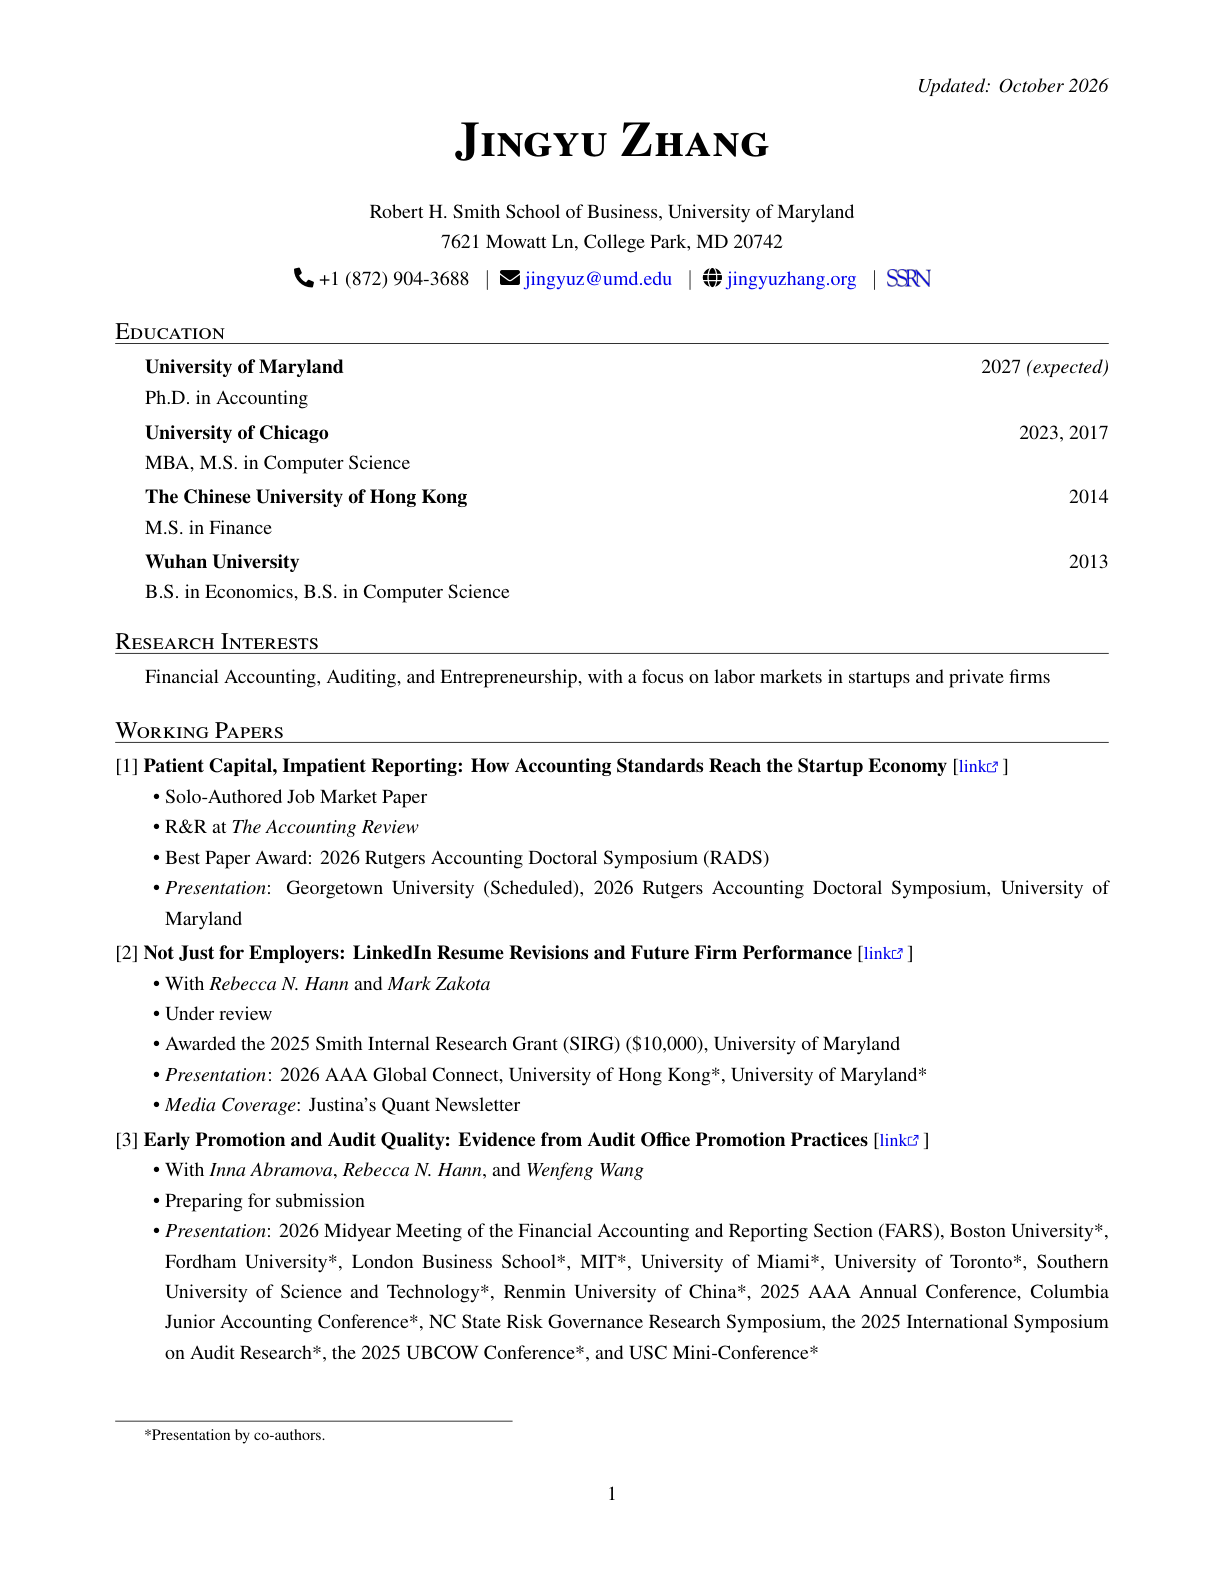
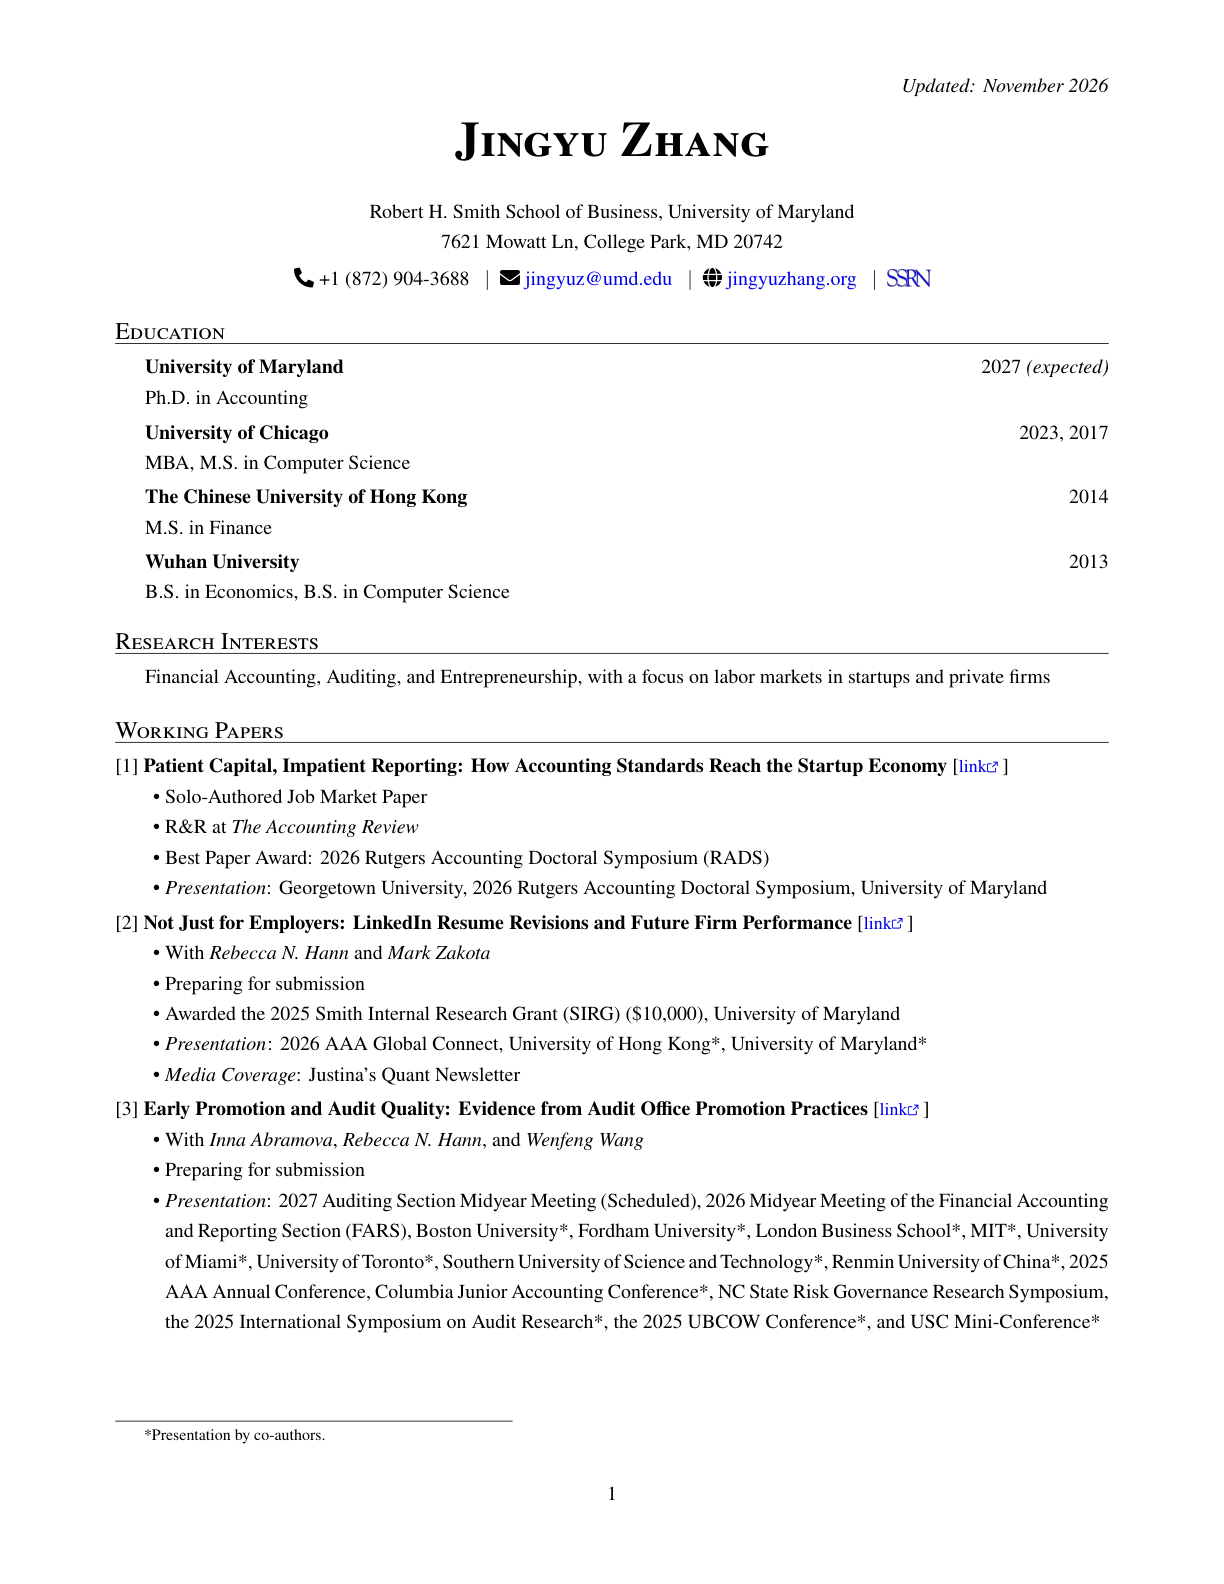
CV updated November 2026: GenAI paper retitled, 2027 Auditing Midyear presentations, readable conference roles

Changed region(s): [[0.0931, 0.5568, 0.9003, 0.8662], [0.7451, 0.0309, 0.8382, 0.0619]]

diff --git a/research/index.html b/research/index.html
@@ -1,6 +1,6 @@
 <!doctype html>
 <!-- This site was created with Hugo Blox. https://hugoblox.com -->
-<!-- Last Published: October 27, 2026 --><html lang="en-us" dir="ltr"
+<!-- Last Published: November 6, 2026 --><html lang="en-us" dir="ltr"
       data-wc-theme-default="light">
   
 <head>
@@ -481,7 +481,7 @@
   <li>R&amp;R at <em>The Accounting Review</em></li>
   <li>Committee: Rebecca N. Hann (Chair), Philip G. Berger, Michael D. Kimbrough, Anastasia A. Zakolyukina, and Mark Zakota</li>
   <li><strong>Best Paper Award</strong>, 2026 Rutgers Accounting Doctoral Symposium</li>
-  <li>Presented at: Georgetown University (scheduled), 2026 Rutgers Accounting Doctoral Symposium, University of Maryland</li>
+  <li>Presented at: Georgetown University, 2026 Rutgers Accounting Doctoral Symposium, University of Maryland</li>
 </ul>
 <div class="jmp-abstract">
 <p><strong>Abstract.</strong> ASU 2016-01 requires public firms to recognize equity-investment value changes in net income, exposing public corporate venture capital (CVC) investors to substantial earnings volatility from their startup holdings. This paper examines whether the standard, aimed at public-firm reporting, reaches the private startups these investors back. Using a comprehensive sample of CVC- and VC-backed startups, I find that public CVCs reduce early-stage deal formation and follow-on funding after the standard, relative to unaffected investors. Affected startups experience significantly slower employment growth, driven by reduced hiring and concentrated among the most CVC-dependent firms. Consistent with the earnings-volatility mechanism, the pullback is strongest among the most exposed parents. Although other investors largely replace the lost funding, startups’ co-investor networks narrow and talent pipelines thin, suggesting CVCs provide strategic resources that capital alone cannot replace. Overall, these findings identify investment relationships as a channel through which public-firm reporting rules reach the startup economy.</p>
@@ -492,7 +492,7 @@
 <h3><span class="num">[2]</span> <a href="https://papers.ssrn.com/sol3/papers.cfm?abstract_id=6637079">Not Just for Employers: LinkedIn Resume Revisions and Future Firm Performance</a></h3>
 <ul>
   <li>With Rebecca N. Hann and Mark Zakota</li>
-  <li>Under review</li>
+  <li>Preparing for submission</li>
   <li>Awarded the 2025 Smith Internal Research Grant, University of Maryland</li>
   <li><strong>Presented at:</strong> 2026 AAA Global Connect, University of Hong Kong*, University of Maryland*</li>
   <li><strong>Media coverage:</strong> Justina's Quant Newsletter</li>
@@ -506,7 +506,7 @@
 <h3><span class="num">[3]</span> <a href="https://papers.ssrn.com/sol3/papers.cfm?abstract_id=5600852">Early Promotion and Audit Quality: Evidence from Audit Office Promotion Practices</a></h3>
 <ul>
   <li>With Inna Abramova, Rebecca N. Hann, and Wenfeng Wang</li>
-  <li><strong>Presented at:</strong> 2026 Midyear Meeting of the Financial Accounting and Reporting Section (FARS), Boston University*, Fordham University*, London Business School*, MIT*, University of Miami*, University of Toronto*, Southern University of Science and Technology*, Renmin University of China*, 2025 AAA Annual Conference, Columbia Junior Accounting Conference*, NC State Risk Governance Research Symposium, 2025 International Symposium on Audit Research*, 2025 UBCOW Conference*, USC Mini-Conference*</li>
+  <li><strong>Presented at:</strong> 2027 Auditing Section Midyear Meeting (scheduled), 2026 Midyear Meeting of the Financial Accounting and Reporting Section (FARS), Boston University*, Fordham University*, London Business School*, MIT*, University of Miami*, University of Toronto*, Southern University of Science and Technology*, Renmin University of China*, 2025 AAA Annual Conference, Columbia Junior Accounting Conference*, NC State Risk Governance Research Symposium, 2025 International Symposium on Audit Research*, 2025 UBCOW Conference*, USC Mini-Conference*</li>
 </ul>
 <details>
   <summary>Abstract</summary>
@@ -518,7 +518,7 @@
 <ul>
   <li>With Inna Abramova, Philip G. Berger, and Rebecca N. Hann</li>
   <li>Awarded the 2025 Institute of Entrepreneurship and Private Capital Research Grant, London Business School</li>
-  <li><strong>Presented at:</strong> University of Illinois 27th Symposium on Auditing Research*</li>
+  <li><strong>Presented at:</strong> 2027 Auditing Section Midyear Meeting (scheduled), University of Illinois 27th Symposium on Auditing Research*</li>
 </ul>
 <details>
   <summary>Abstract</summary>
@@ -530,7 +530,7 @@
 <ul>
   <li>With Philip G. Berger, Rebecca N. Hann, and Kristen Valentine</li>
   <li>Awarded the Polsky Center for Entrepreneurship and Innovation Research Grant, University of Chicago</li>
-  <li><strong>Presented at:</strong> 2026 Labor &amp; Finance Conference* (scheduled), National University of Singapore*, Fordham University*</li>
+  <li><strong>Presented at:</strong> 2026 Labor &amp; Finance Conference*, National University of Singapore*, Fordham University*</li>
 </ul>
 <details>
   <summary>Abstract</summary>

diff --git a/cv/index.html b/cv/index.html
@@ -1,6 +1,6 @@
 <!doctype html>
 <!-- This site was created with Hugo Blox. https://hugoblox.com -->
-<!-- Last Published: October 27, 2026 --><html lang="en-us" dir="ltr"
+<!-- Last Published: November 6, 2026 --><html lang="en-us" dir="ltr"
       data-wc-theme-default="light">
   
 <head>
@@ -485,7 +485,7 @@
       
         
           <div class="cv-page">
-            <img src="/media/cv/page-01.png?v=59586bd65c" alt="Curriculum vitae page 1" loading="lazy">
+            <img src="/media/cv/page-01.png?v=7828d1ff34" alt="Curriculum vitae page 1" loading="lazy">
             
               
                 
@@ -502,10 +502,10 @@
                      style="left:78.175%;top:47.771%;width:3.869%;height:1.366%"></a>
                 
                   <a class="cv-hit" href="https://papers.ssrn.com/sol3/papers.cfm?abstract_id=6637079" target="_blank" rel="noopener"
-                     style="left:70.39999999999999%;top:59.555%;width:3.869%;height:1.365%"></a>
+                     style="left:70.39999999999999%;top:57.638%;width:3.869%;height:1.365%"></a>
                 
                   <a class="cv-hit" href="https://papers.ssrn.com/sol3/papers.cfm?abstract_id=5600852" target="_blank" rel="noopener"
-                     style="left:71.698%;top:71.339%;width:3.869%;height:1.366%"></a>
+                     style="left:71.698%;top:69.422%;width:3.869%;height:1.366%"></a>
                 
               
             
@@ -514,7 +514,7 @@
       
         
           <div class="cv-page">
-            <img src="/media/cv/page-02.png?v=59586bd65c" alt="Curriculum vitae page 2" loading="lazy">
+            <img src="/media/cv/page-02.png?v=7828d1ff34" alt="Curriculum vitae page 2" loading="lazy">
             
               
                 
@@ -525,7 +525,7 @@
       
         
           <div class="cv-page">
-            <img src="/media/cv/page-03.png?v=59586bd65c" alt="Curriculum vitae page 3" loading="lazy">
+            <img src="/media/cv/page-03.png?v=7828d1ff34" alt="Curriculum vitae page 3" loading="lazy">
             
               
                 

diff --git a/404.html b/404.html
@@ -1,6 +1,6 @@
 <!doctype html>
 <!-- This site was created with Hugo Blox. https://hugoblox.com -->
-<!-- Last Published: October 27, 2026 --><html lang="en-us" dir="ltr"
+<!-- Last Published: November 6, 2026 --><html lang="en-us" dir="ltr"
       data-wc-theme-default="light">
   
 <head>

diff --git a/categories/index.html b/categories/index.html
@@ -1,6 +1,6 @@
 <!doctype html>
 <!-- This site was created with Hugo Blox. https://hugoblox.com -->
-<!-- Last Published: October 27, 2026 --><html lang="en-us" dir="ltr"
+<!-- Last Published: November 6, 2026 --><html lang="en-us" dir="ltr"
       data-wc-theme-default="light">
   
 <head>

diff --git a/index.html b/index.html
@@ -1,6 +1,6 @@
 <!doctype html>
 <!-- This site was created with Hugo Blox. https://hugoblox.com -->
-<!-- Last Published: October 27, 2026 --><html lang="en-us" dir="ltr"
+<!-- Last Published: November 6, 2026 --><html lang="en-us" dir="ltr"
       data-wc-theme-default="light">
   
 <head>

diff --git a/software/index.html b/software/index.html
@@ -1,6 +1,6 @@
 <!doctype html>
 <!-- This site was created with Hugo Blox. https://hugoblox.com -->
-<!-- Last Published: October 27, 2026 --><html lang="en-us" dir="ltr"
+<!-- Last Published: November 6, 2026 --><html lang="en-us" dir="ltr"
       data-wc-theme-default="light">
   
 <head>

diff --git a/tags/index.html b/tags/index.html
@@ -1,6 +1,6 @@
 <!doctype html>
 <!-- This site was created with Hugo Blox. https://hugoblox.com -->
-<!-- Last Published: October 27, 2026 --><html lang="en-us" dir="ltr"
+<!-- Last Published: November 6, 2026 --><html lang="en-us" dir="ltr"
       data-wc-theme-default="light">
   
 <head>

diff --git a/teaching/index.html b/teaching/index.html
@@ -1,6 +1,6 @@
 <!doctype html>
 <!-- This site was created with Hugo Blox. https://hugoblox.com -->
-<!-- Last Published: October 27, 2026 --><html lang="en-us" dir="ltr"
+<!-- Last Published: November 6, 2026 --><html lang="en-us" dir="ltr"
       data-wc-theme-default="light">
   
 <head>
